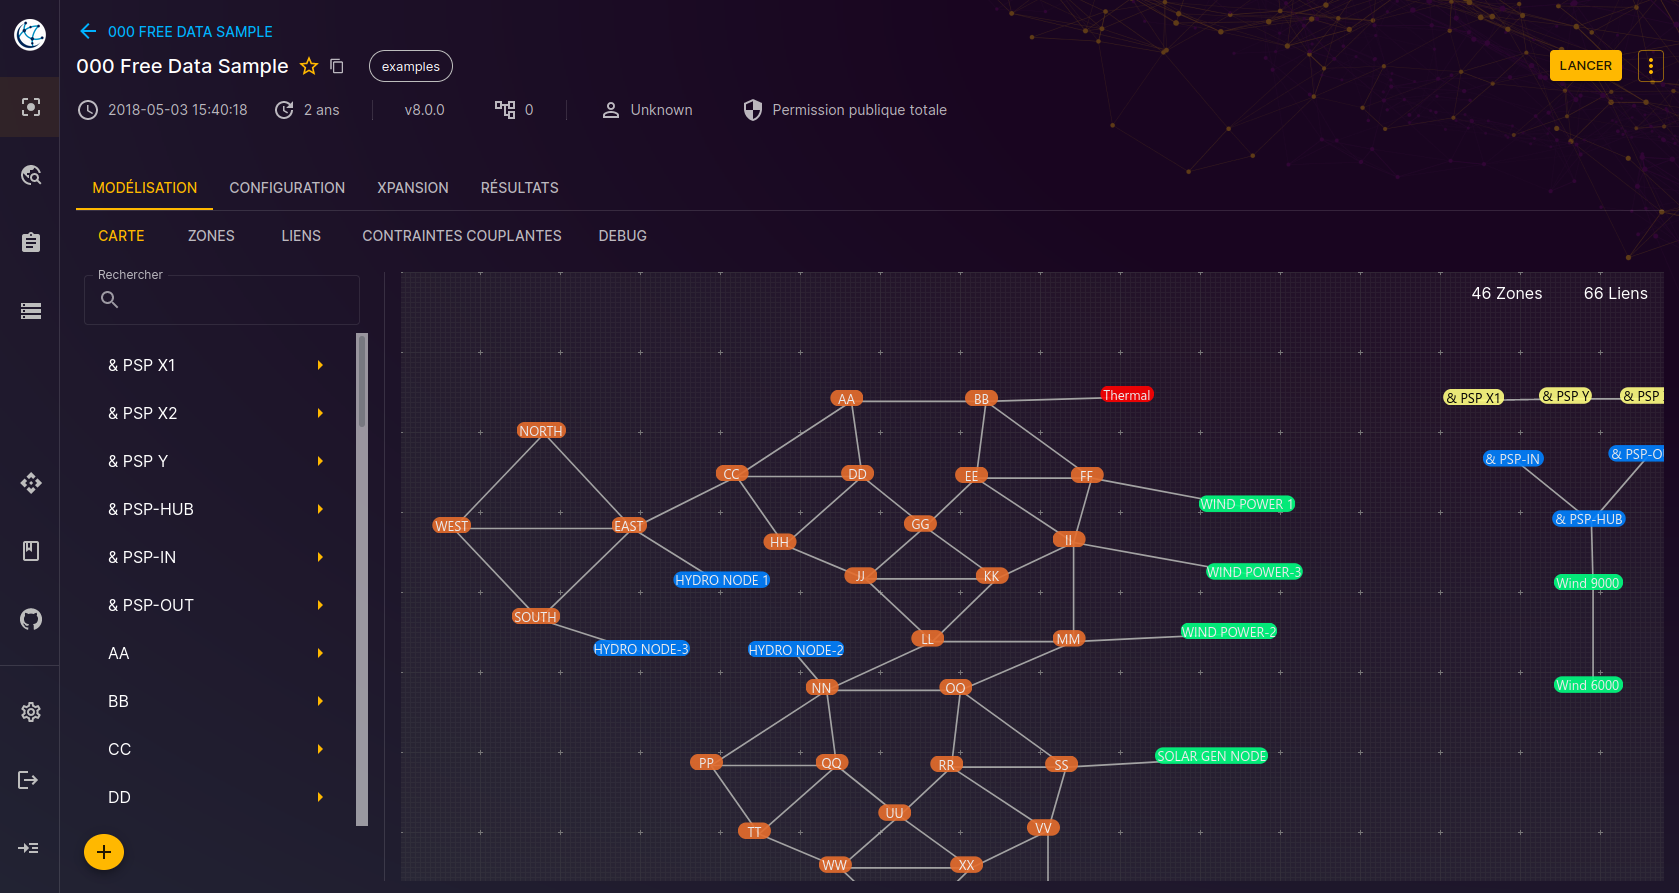
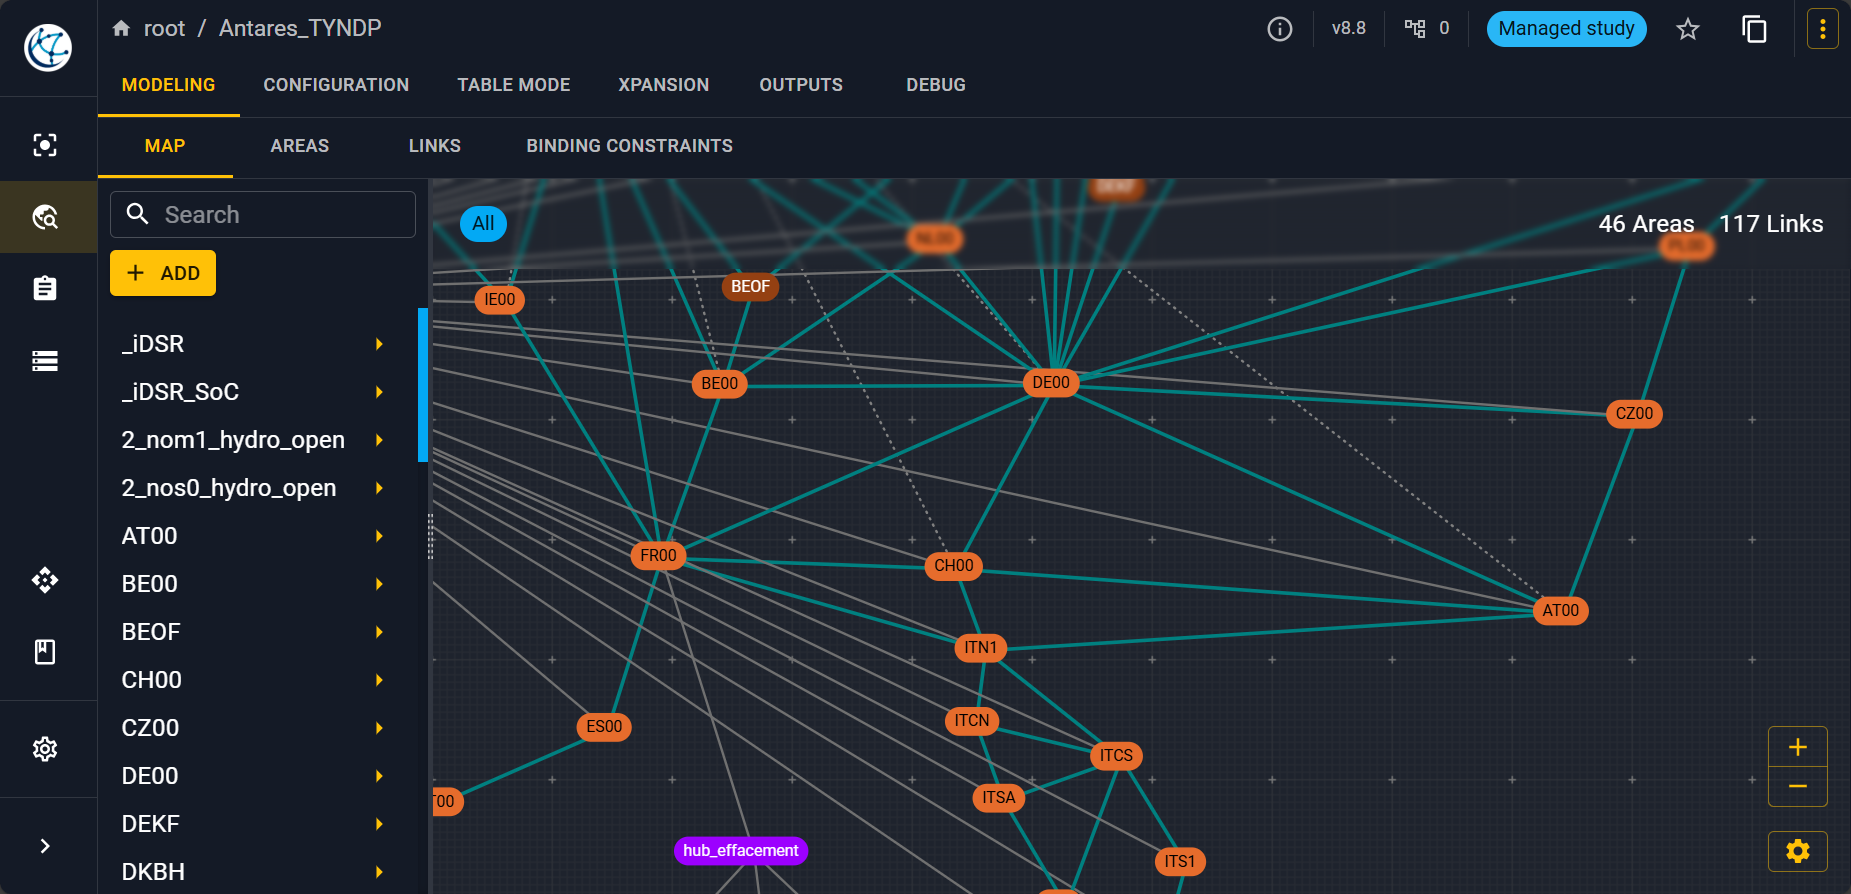
Update README

diff --git a/README.md b/README.md
@@ -20,9 +20,15 @@
 
 ## About
 
-**Antares Web** is a web platform developed by RTE to manage, configure, and interact with Antares Simulator, RTE’s adequacy simulation software for power system studies, [Antares Simulator](https://antares-simulator.org). Antares Simulator is an open-source power system simulator that enables detailed modeling of energy consumption, generation, and transportation, performing probabilistic simulations across year-long scenarios with 8760 hourly time-frames.
+**Antares Web** is a web platform developed by RTE to manage, configure, 
+and interact with Antares Simulator which is part of 
+[Antares](https://antares-doc.readthedocs.io/en/latest/), RTE backed adequacy simulation software 
+for power system studies. Antares Simulator is an open-source power system simulator 
+that enables detailed modeling of energy consumption, generation, and transportation, 
+performing probabilistic simulations across year-long scenarios with 8760 hourly time-frames.
 
-Antares Web provides a modern REST API and web interface for managing Antares Simulator studies, adding powerful features for collaboration, storage optimization, and advanced editing capabilities.
+Antares Web provides a modern REST API and web interface for managing Antares Simulator studies, 
+adding powerful features for collaboration, storage optimization, and advanced editing capabilities.
 
 ### Key Features
 
@@ -115,7 +121,8 @@ Run with default configuration:
 docker run -p 8080:5000 -e GUNICORN_WORKERS=1 antarest
 ```
 
-For production deployment with external database and Redis, see the [deployment documentation](https://antares-web.readthedocs.io/en/latest/developer-guide/install/2-DEPLOY.html).
+For production deployment with external database and Redis, see the 
+[deployment documentation](https://antares-web.readthedocs.io/en/latest/developer-guide/install/2-DEPLOY.html).
 
 ## Usage
 
@@ -143,7 +150,9 @@ export GUNICORN_WORKERS=4
 uv run gunicorn --config conf/gunicorn.py --worker-class=uvicorn.workers.UvicornWorker antarest.wsgi:app
 ```
 
-**Note**: In production, we now use an alternative deployment mode where Gunicorn is not used for load balancing. Instead, we start multiple independent workers on different ports, allowing upstream load balancing to be handled by tools like nginx.
+**Note**: In production, we now use an alternative deployment mode where Gunicorn is not used 
+for load balancing. Instead, we start multiple independent workers on different ports, 
+allowing upstream load balancing to be handled by tools like nginx.
 
 ### API Documentation
 
@@ -200,14 +209,15 @@ mypy
 
 ## Documentation
 
-- **Full Documentation**: [antares-web.readthedocs.io](https://antares-web.readthedocs.io/)
-- **Antares Simulator**: [antares-simulator.readthedocs.io](https://antares-simulator.readthedocs.io/)
+- **Antares user documentation including on using Antares Web**: [antares-doc.readthedocs.io](https://antares-doc.readthedocs.io/en/latest/)
+- **Antares Web technical documentation**: [antares-web.readthedocs.io](https://antares-web.readthedocs.io/en/latest/)
 
 ---
 
 ## Contributing
 
-We welcome contributions from the community! Whether you're fixing bugs, adding features, or improving documentation, your help is appreciated.
+We welcome contributions from the community! Whether you're fixing bugs, 
+adding features, or improving documentation, your help is appreciated.
 
 Please read our [Contributing Guide](./CONTRIBUTING.md) to learn about:
 - Setting up your development environment
@@ -221,7 +231,7 @@ Please read our [Contributing Guide](./CONTRIBUTING.md) to learn about:
 
 This project is licensed under the Apache License 2.0 - see the [LICENSE](LICENSE) file for details.
 
-Copyright © 2007-2025 RTE (https://www.rte-france.com)
+Copyright © 2007-2026 RTE (https://www.rte-france.com)
 
 ---
 